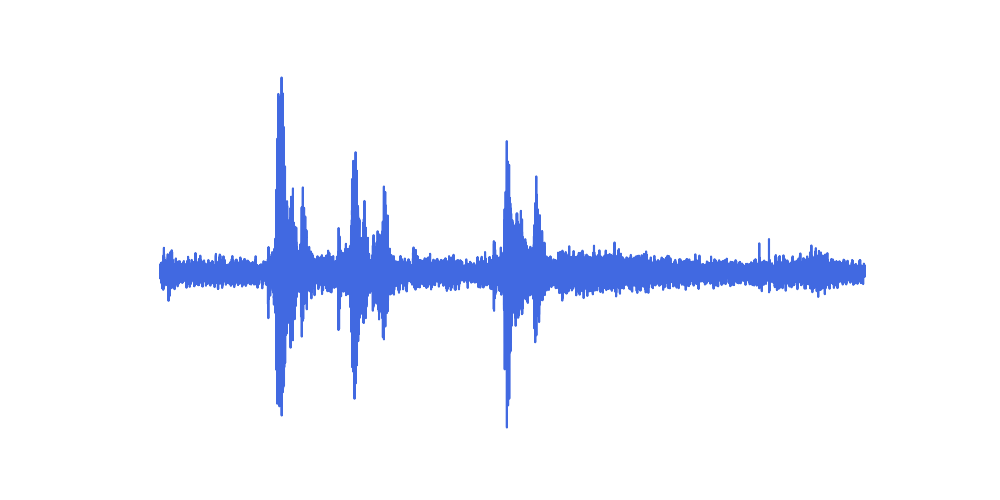
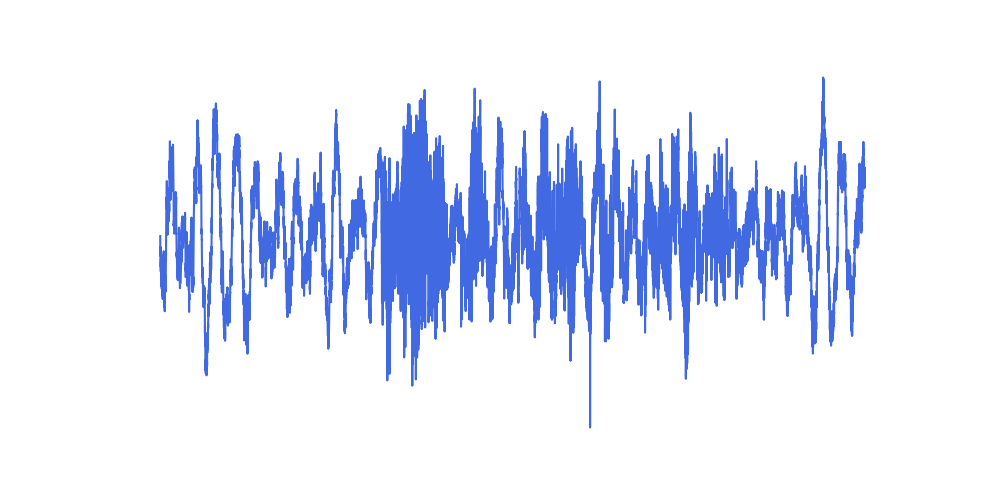
pyqt5 ui update

Changed region(s): [[0.155, 0.18, 0.868, 0.84]]

diff --git a/gui.py b/gui.py
@@ -1,37 +1,86 @@
 from PyQt5.QtWidgets import *
 from PyQt5.QtGui import QPalette, QColor, QPixmap
 from PyQt5.QtCore import Qt
+from qtrangeslider import QRangeSlider
 import sys
 import os
 import showDevice
 from PIL import ImageTk, Image
 import os
-import threading
+from threading import Thread
 import playback
 import soundRecording
 import noiseReduction
 import speechToTextLib
 import audio_trim
 import datetime
+import time
 
-global input_device, volume, speed, start, end, selected_file, edit_frames
+global input_device, volume, speed, start, end, selected_file, edit_frames, stop_thread, number_of_channel
 input_device = 1
 volume = 1
 speed = 1
 start = 0
 selected_file = None
+number_of_channel = 1
 
 recordingDirectory = "recordings"
+
+class EditWindow(QWidget):
+    def __init__(self, end):
+        super().__init__()
+
+        self.setWindowTitle("Edit")
+        self.setFixedSize(1600, 900)
+
+        self.end = end
+
+        self.initUI()
+        
+
+    def initUI(self):
+
+        layout = QVBoxLayout()
+
+        #Label
+        audioTrimLabel = QLabel()
+        audioTrimLabel.setText("Audio Trim")
+        audioTrimLabel.setStyleSheet("QLabel{font-size: 18pt;}")
+
+        layout.addWidget(audioTrimLabel)
+
+        #range slider
+        rangeSlider = QRangeSlider(Qt.Horizontal)
+        rangeSlider.setMinimum(0)
+        rangeSlider.setMaximum(self.end)
+        
+        rangeSlider.setValue([0, self.end])
+
+
+        layout.addWidget(rangeSlider)
+
+
+
+
+
+
+        self.setLayout(layout)
 
 class MainWindow(QMainWindow):
 
     def __init__(self):
         super().__init__()
         self.setWindowTitle("Sound Recorder")
-        self.setFixedSize(1600, 900)
+        self.setFixedSize(1800, 900)
+
+        playback.getPyAudio()
 
         self.recordingContent = QListView()
         self.slider = QSlider(Qt.Horizontal)
+        self.waveGraph = QLabel()
+        self.audioTimeText = QLabel()
+        self.volumeSlider = QSlider(Qt.Horizontal)
+        self.editWindow = EditWindow(0)
         
         self.initUI()
 
@@ -89,16 +138,61 @@ class MainWindow(QMainWindow):
         waveGraph = QVBoxLayout()
 
         #graph
-        label = QLabel()
+        self.waveGraph = QLabel()
         pixmap = QPixmap("plot.png")
-        label.setPixmap(pixmap)
+        self.waveGraph.setPixmap(pixmap)
 
-        waveGraph.addWidget(label)
+        waveGraph.addWidget(self.waveGraph)
 
         #slider
         self.slider = QSlider(Qt.Horizontal)
+        self.slider.valueChanged.connect(self.audio_slider_move)
 
         waveGraph.addWidget(self.slider)
+        
+
+        #volume 
+        volumeLayout = QHBoxLayout()
+
+        #volume text
+        volumeText = QLabel()
+        volumeText.setText("Volume: ")
+
+        volumeLayout.addWidget(volumeText)
+
+        #volume slider
+        self.volumeSlider = QSlider(Qt.Horizontal)
+        self.volumeSlider.setMinimum(5)
+        self.volumeSlider.setMaximum(20)
+        self.volumeSlider.valueChanged.connect(self.volume_slider_move)
+
+        volumeLayout.addWidget(self.volumeSlider)
+
+        waveGraph.addLayout(volumeLayout)
+
+
+        #function tools
+        functionToolLayout = QHBoxLayout()
+
+
+        #audio to text button
+        audioToTextButton = QPushButton()
+        audioToTextButton.setText("Audio To Text")
+        audioToTextButton.clicked.connect(self.audio_to_text_button_function)
+
+        functionToolLayout.addWidget(audioToTextButton)
+
+
+        #edit button
+        editButton = QPushButton()
+        editButton.setText("Edit")
+        editButton.clicked.connect(self.edit_button_function)
+
+        functionToolLayout.addWidget(editButton)
+
+        waveGraph.addLayout(functionToolLayout)
+
+
 
 
         return waveGraph
@@ -106,6 +200,18 @@ class MainWindow(QMainWindow):
     def initLowerLayout(self):
 
         lowerLayout = QHBoxLayout()
+
+        #channel choice
+        channelChoices = QComboBox()
+        channelChoices.setStyleSheet("QComboBox{font-size: 8pt;}")
+
+        channelChoices.addItem("1")
+        channelChoices.addItem("2")
+
+        channelChoices.setCurrentIndex(0)
+        channelChoices.currentIndexChanged.connect(self.channel_change)
+        
+        lowerLayout.addWidget(channelChoices)
 
         #device choice
         deviceChoices = QComboBox()
@@ -135,12 +241,12 @@ class MainWindow(QMainWindow):
         lowerLayout.addWidget(stopRecordingButton)
 
         #audio time text
-        audioTimeText = QLabel()
-        audioTimeText.setStyleSheet("QLabel{font-size: 18pt;}")
-        audioTimeText.setText("00:00:00.00 / 00:00:00")
-        audioTimeText.setAlignment(Qt.AlignCenter)
+        self.audioTimeText = QLabel()
+        self.audioTimeText.setStyleSheet("QLabel{font-size: 18pt;}")
+        self.audioTimeText.setText("00:00:00 / 00:00:00")
+        self.audioTimeText.setAlignment(Qt.AlignCenter)
 
-        lowerLayout.addWidget(audioTimeText)
+        lowerLayout.addWidget(self.audioTimeText)
 
         #play button
         playButton = QPushButton()
@@ -149,6 +255,14 @@ class MainWindow(QMainWindow):
         playButton.clicked.connect(self.play_audio)
 
         lowerLayout.addWidget(playButton)
+
+        #pause button
+        pauseButton = QPushButton()
+        pauseButton.setText("Pause")
+
+        pauseButton.clicked.connect(self.pause_audio)
+
+        lowerLayout.addWidget(pauseButton)
 
         #audio speed choice
         audioSpeedChoice = QComboBox()
@@ -178,7 +292,7 @@ class MainWindow(QMainWindow):
     def record_audio(self):
         print("Recording audio")
         global streamObj, pObj, frames, input_device
-        streamObj, pObj = soundRecording.startRecording(44100, 1024, 1, input_device) #initiate, para = fs, chunk, channel
+        streamObj, pObj = soundRecording.startRecording(44100, 1024, number_of_channel, input_device) #initiate, para = fs, chunk, channel
         frames = soundRecording.threadWriting(streamObj, 1024)
     
     def stop_record(self):
@@ -186,9 +300,16 @@ class MainWindow(QMainWindow):
         filename = f"recordings/record_{current_time}.wav"
         global streamObj, pObj, frames
         soundRecording.stopRecording(streamObj, pObj) #stop writing, para = stream object, audio object
-        soundRecording.fileWriting(frames, 1, 44100, filename)
-        self.update_recordingContent()
-    
+        soundRecording.fileWriting(frames, number_of_channel, 44100, filename)
+        self.recordingContent.addItem(f"record_{current_time}.wav")
+
+    def channel_change(self, channel_index):
+        global number_of_channel
+        if channel_index == 0:
+            number_of_channel = 1
+        else:
+            number_of_channel = 2
+
     def speed_change(self, speed_index):
         global speed
         if speed_index == 0:
@@ -203,25 +324,102 @@ class MainWindow(QMainWindow):
         input_device = device_index
 
     def recording_selected(self):
-        global selected_file
+        global selected_file, end
         selected_file = f"recordings/{self.recordingContent.currentItem().text()}"
         if selected_file:
             global wav
             wav = playback.getData(selected_file)
-            self.slider.value = 0
-            self.slider.sliderPosition = 0
+            self.slider.setValue(0)
+            value = int(wav["duration"])
+            end = value
+            self.slider.setMaximum(value)
+            self.slider.setSliderPosition(0)
             self.slider.update()
             self.slider.repaint()
+            playback.visualize(wav)
+            pixmap = QPixmap("plot.png")
+            self.waveGraph.setPixmap(pixmap)
+            end_hour = int(end / 3600)
+            end_minute = int((end - end_hour * 3600) / 60)
+            end_second = int((end - end_hour % 3600) % 60)
+            self.audioTimeText.setText(f"00:00:00 / {end_hour:02d}:{end_minute:02d}:{end_second:02d}")
             print(selected_file)
 
     def play_audio(self):
         global selected_file, wav, volume, start, stream
-        start = self.slider.value
+        start = self.slider.value()
         #volume = volume_slider.get()
         print(f"Playing {selected_file}")
         stream = playback.getStream(wav)
+        thread = Thread(target = self.slider_move)
+        thread.start()
         playback.play(stream, wav, speed, volume, start)
         playback.stop(stream)
+
+
+    def slider_move(self):
+        global end, stop_thread, speed
+        stop_thread = False
+        current_value = self.slider.value()
+        current_hour = int(current_value / 3600)
+        current_minute = int((current_value - current_hour * 3600) / 60)
+        current_second = int((current_value - current_hour * 3600) % 60)
+
+        end_hour = int(end / 3600)
+        end_minute = int((end - end_hour * 3600) / 60)
+        end_second = int((end - end_hour % 3600) % 60)
+        self.audioTimeText.setText(f"{current_hour:02d}:{current_minute:02d}:{current_second:02d} / {end_hour:02d}:{end_minute:02d}:{end_second:02d}")
+        while(current_value < end):
+            print(f"{current_value} / {end}")
+            time.sleep(1 / speed)
+            current_value += 1
+            self.slider.setValue(current_value)
+            self.slider.setSliderPosition(current_value)
+            self.slider.update()
+            self.slider.repaint()
+            current_hour = int(current_value / 3600)
+            current_minute = int((current_value - current_hour * 3600) / 60)
+            current_second = int((current_value - current_hour * 3600) % 60)
+            self.audioTimeText.setText(f"{current_hour:02d}:{current_minute:02d}:{current_second:02d} / {end_hour:02d}:{end_minute:02d}:{end_second:02d}")
+            if stop_thread == True:
+                return
+
+    def pause_audio(self):
+        global stream, stop_thread
+        stop_thread = True
+        print("Pausing audio")
+        playback.pause(stream)
+        
+    def audio_slider_move(self):
+        global start, end
+        current_value = self.slider.value()
+        current_hour = int(current_value / 3600)
+        current_minute = int((current_value - current_hour * 3600) / 60)
+        current_second = int((current_value - current_hour * 3600) % 60)
+
+        end_hour = int(end / 3600)
+        end_minute = int((end - end_hour * 3600) / 60)
+        end_second = int((end - end_hour % 3600) % 60)
+        self.audioTimeText.setText(f"{current_hour:02d}:{current_minute:02d}:{current_second:02d} / {end_hour:02d}:{end_minute:02d}:{end_second:02d}")
+
+
+    def volume_slider_move(self):
+        global volume
+        currentVolume = self.volumeSlider.value()
+        volume = currentVolume / 10
+    
+    def audio_to_text_button_function(self):
+        global selected_file
+        text_content = speechToTextLib.speechToText(f"{selected_file}")
+        popup_message = QMessageBox()
+        popup_message.setText(text_content)
+        popup_message.exec_()
+        return
+    
+    def edit_button_function(self, checked):
+        global end
+        self.editWindow = EditWindow(end = end)
+        self.editWindow.show()
             
        
 

diff --git a/soundRecording.py b/soundRecording.py
@@ -83,11 +83,11 @@ def fileWriting(frames, channel, fs, outPath):
 
 if __name__ == "__main__":
     # Set 1 when press play button
-    streamObj, pObj = startRecording(44100, 1024, 2, 1) #initiate, para = fs, chunk, channel
+    streamObj, pObj = startRecording(44100, 1024, 1, 1) #initiate, para = fs, chunk, channel
     frames = threadWriting(streamObj, 1024) #keep writing, para = stream object, chunk
     # End of set 1
     time.sleep(5)
     # Set 2 when press stop button
     stopRecording(streamObj, pObj) #stop writing, para = stream object, audio object
-    fileWriting(frames, 2, 44100, 'Test Case/BASIC - Test for sound recording/32bitS.wav') #rewrite the data file to wav-capable, para = raw audio data, channel, fs, output path
+    fileWriting(frames, 1, 44100, 'example_32.wav') #rewrite the data file to wav-capable, para = raw audio data, channel, fs, output path
     # End of Set 2
